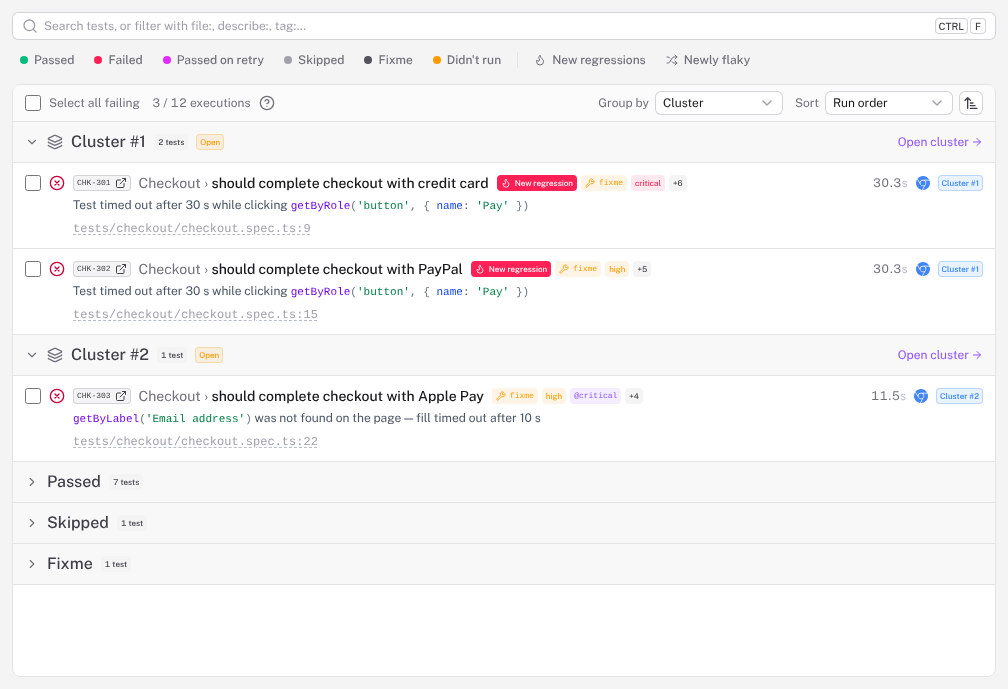
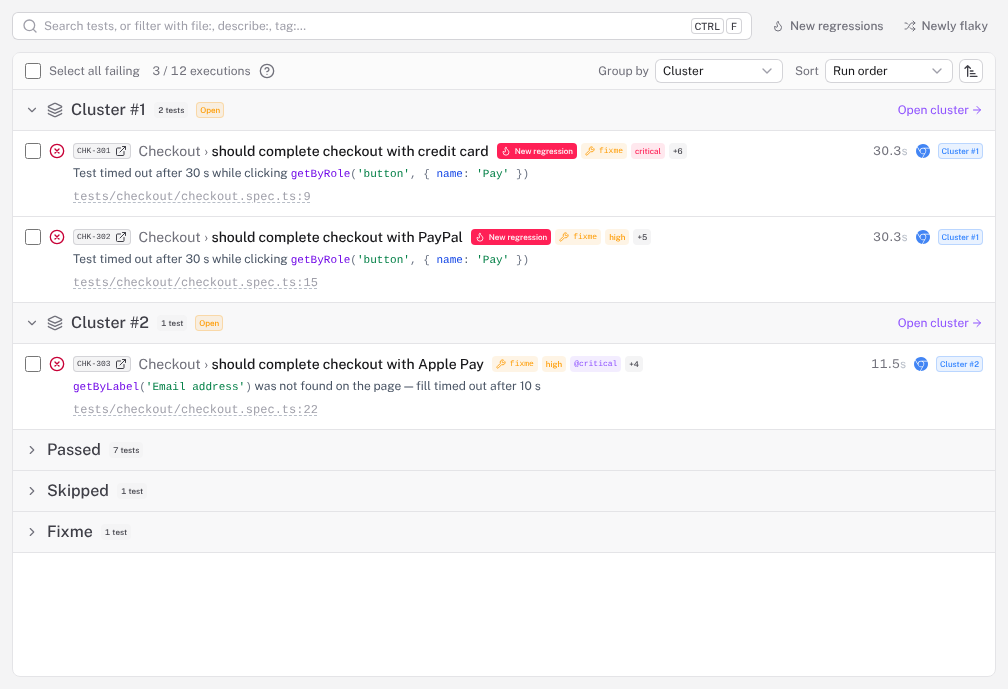
feat(ui): filter a run's tests by outcome from the count bar alone
The run header's count bar writes each count on its segment and filters
the Tests list by that outcome, so the Tests tab's six outcome chips
repeated it. They are gone; New regressions and Newly flaky stay beside the
search as toggles, and the search gets the row's width back. The Tests help
hint points at the count bar, and the run page tests filter through its
segments.

Claude-Session: https://claude.ai/code/session_013FenjKYPsLwGaJbpBGCDBw

diff --git a/apps/application/app/components/run/TestCasesList.vue b/apps/application/app/components/run/TestCasesList.vue
@@ -131,21 +131,6 @@ function positionOf(tc: TestCaseResult): TestPosition {
 /** Every value the search qualifiers can take in this run, for completion. */
 const searchValues = computed(() => collectTestSearchValues(props.testCases.map(searchSubject), RUN_SEARCH_FIELDS));
 
-const STATUS_OPTIONS = [
-  { label: 'Passed', value: 'passed' },
-  { label: 'Failed', value: 'failed' },
-  { label: 'Passed on retry', value: 'flaky' },
-  { label: 'Skipped', value: 'skipped' },
-  { label: 'Fixme', value: 'fixme' },
-  { label: "Didn't run", value: 'didnotrun' },
-] as const;
-
-function toggleStatus(value: string) {
-  activeStatuses.value = activeStatuses.value.includes(value)
-    ? activeStatuses.value.filter((s) => s !== value)
-    : [...activeStatuses.value, value];
-}
-
 function matchesStatus(tc: TestCaseResult, filter: string): boolean {
   if (filter === 'failed') return isFailedStatus(tc.status);
   // Passed and passed on retry are disjoint here, like skipped and fixme, so
@@ -741,9 +726,9 @@ defineExpose({ scrollToCase });
 <template>
   <div class="flex flex-col min-h-0">
     <!-- Filters: the search (words and file:, describe:, tag:, browser:…
-         qualifiers) and the outcomes, on one row when they fit and the outcomes
-         under the search otherwise. How the rows are grouped and sorted, and
-         Clear filters, sit on the list's own header. -->
+         qualifiers) and the two signals, New regressions and Newly flaky, as
+         toggles. The run header's count bar filters by outcome. How the rows
+         are grouped and sorted, and Clear filters, sit on the list's own header. -->
     <div class="mb-3 shrink-0 flex flex-wrap items-center gap-x-3 gap-y-2">
       <TestSearchInput
         v-model="testCaseSearch"
@@ -753,33 +738,21 @@ defineExpose({ scrollToCase });
         class="flex-[1_1_15rem]"
       />
 
-      <div class="flex flex-wrap items-center gap-1">
+      <div v-if="!isLive" class="flex flex-wrap items-center gap-1">
         <StatusFilterChip
-          v-for="opt in STATUS_OPTIONS"
-          :key="opt.value"
-          :status="opt.value"
-          :label="opt.label"
-          :pressed="activeStatuses.includes(opt.value)"
-          @click="toggleStatus(opt.value)"
+          status="failed"
+          label="New regressions"
+          icon="i-lucide-flame"
+          :pressed="showNewRegressionsOnly"
+          @click="showNewRegressionsOnly = !showNewRegressionsOnly"
         />
-        <!-- The two signals join the status chips as toggles, not checkboxes. -->
-        <template v-if="!isLive">
-          <span class="mx-1 h-4 w-px bg-accented" aria-hidden="true" />
-          <StatusFilterChip
-            status="failed"
-            label="New regressions"
-            icon="i-lucide-flame"
-            :pressed="showNewRegressionsOnly"
-            @click="showNewRegressionsOnly = !showNewRegressionsOnly"
-          />
-          <StatusFilterChip
-            status="flaky"
-            label="Newly flaky"
-            icon="i-lucide-shuffle"
-            :pressed="showNewFlakyOnly"
-            @click="showNewFlakyOnly = !showNewFlakyOnly"
-          />
-        </template>
+        <StatusFilterChip
+          status="flaky"
+          label="Newly flaky"
+          icon="i-lucide-shuffle"
+          :pressed="showNewFlakyOnly"
+          @click="showNewFlakyOnly = !showNewFlakyOnly"
+        />
       </div>
     </div>
 

diff --git a/apps/application/tests/run-page-filters.spec.ts b/apps/application/tests/run-page-filters.spec.ts
@@ -295,7 +295,7 @@ test.describe.serial('Run page Tests tab', () => {
     await page.goto(`/test-runs/${runId}`);
     await waitForHydration(page);
 
-    await page.getByRole('button', { name: 'Failed', exact: true }).click();
+    await page.getByRole('button', { name: '3 failed' }).first().click();
     await searchBox(page).fill('cart');
     await searchBox(page).press('Escape');
     await expect(visibleTitles(page)).toHaveText(['cart shows items']);
@@ -309,7 +309,7 @@ test.describe.serial('Run page Tests tab', () => {
 
     await expect(page).toHaveURL(new RegExp(`/test-runs/${runId}`));
     await expect(searchBox(page)).toHaveValue('cart');
-    await expect(page.getByRole('button', { name: 'Failed', exact: true })).toHaveAttribute('aria-pressed', 'true');
+    await expect(page.getByRole('button', { name: '3 failed' }).first()).toHaveAttribute('aria-pressed', 'true');
     await expect(visibleTitles(page)).toHaveText(['cart shows items']);
   });
 
@@ -390,9 +390,9 @@ test.describe.serial('Run page status segments and tag filter', () => {
     await expect(visibleTitles(page).filter({ hasText: 'refund flow' })).toHaveCount(1);
     await expect(visibleTitles(page).filter({ hasText: 'refund email' })).toHaveCount(1);
 
-    // The Skipped chip holds the plain skip only.
-    await page.getByRole('button', { name: 'Fixme', exact: true }).click();
-    await page.getByRole('button', { name: 'Skipped', exact: true }).click();
+    // The skipped segment holds the plain skip only.
+    await page.getByRole('button', { name: '2 fixme' }).first().click();
+    await page.getByRole('button', { name: '1 skipped' }).first().click();
     await expect(visibleTitles(page)).toHaveCount(1);
     await expect(visibleTitles(page).first()).toHaveText('webkit only flow');
   });

diff --git a/apps/application/shared/help-content.ts b/apps/application/shared/help-content.ts
@@ -581,7 +581,7 @@ export const HELP_TOPICS = {
   },
   'run.test-cases': {
     title: 'Tests',
-    text: 'Every execution in this run, in the order the tests ran (file order when grouped by file). Words search the title, describe blocks, path and error; qualifiers such as file:, describe:, tag: or browser: search one field, and a leading - excludes. Ctrl+F jumps to the search. Group by cluster, file, file and describe block, lock, or none; filter by status (test.skip() and test.fixme() skips apart), new regressions and newly flaky.',
+    text: 'Every execution in this run, in the order the tests ran (file order when grouped by file). Words search the title, describe blocks, path and error; qualifiers such as file:, describe:, tag: or browser: search one field, and a leading - excludes. Ctrl+F jumps to the search. Group by cluster, file, file and describe block, lock, or none. The count bar in the header filters by status (test.skip() and test.fixme() skips apart); New regressions and Newly flaky narrow the list further.',
     doc: 'reference/test-search',
   },
   'run.changes': {

diff --git a/apps/application/app/pages/test-runs/[id].vue b/apps/application/app/pages/test-runs/[id].vue
@@ -526,7 +526,7 @@ function buildRunSummary(): string {
 const testCaseSearch = useViewState('run-tests:search', () => '');
 const testCaseActiveStatuses = useViewState<string[]>('run-tests:statuses', () => []);
 
-// The count-bar segments toggle into the same set the Tests list chips use, and
+// The count-bar segments toggle the status filters the Tests list applies, and
 // switch to the Tests tab so the filtered rows are on screen.
 function handleFilterStatus(status: string) {
   if (!status || status === 'all') {

diff --git a/apps/application/app/components/run/RunHeader.vue b/apps/application/app/components/run/RunHeader.vue
@@ -30,7 +30,7 @@ const props = defineProps<{
   } | null;
   allReports: ReportInfo[];
   totalWastedTime?: number;
-  /** The active status filters, shared with the Tests tab chips and the count bar. */
+  /** The active status filters: the count bar sets them and the Tests list applies them. */
   activeStatuses: string[];
   finalizing?: boolean;
 }>();

diff --git a/apps/application/app/components/run/RunCountBar.vue b/apps/application/app/components/run/RunCountBar.vue
@@ -19,7 +19,7 @@ const props = defineProps<{
   fixme?: number;
   didNotRun: number;
   total: number;
-  /** The status filters currently active, shared with the Tests tab chips. */
+  /** The status filters currently active, which the Tests list applies. */
   activeStatuses: string[];
 }>();
 
